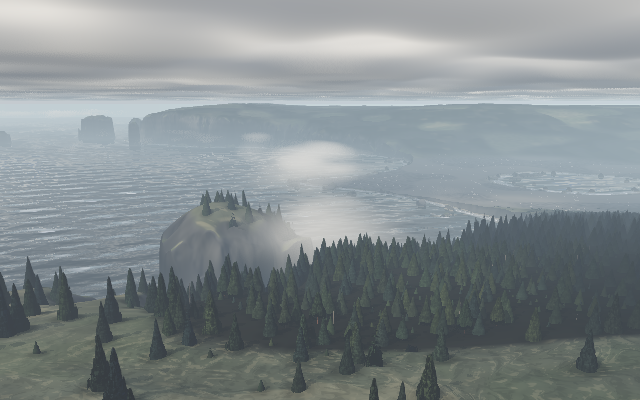
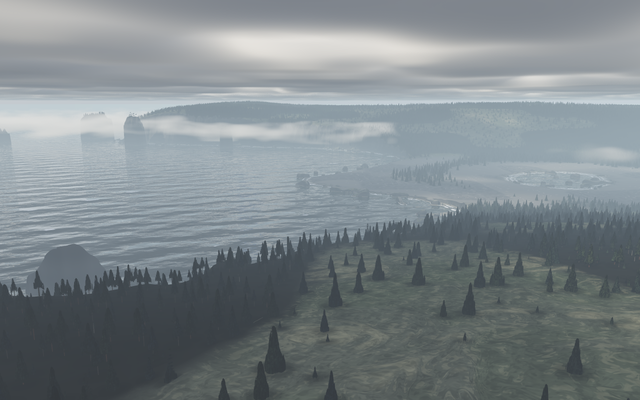
gallery: 1280x800 previews of every piece, refreshed after native noise and the polish (#88)
Every piece at 1280x800, with the large erosion bake (ErN 1024, ErDrops
240000) and 3x3 supersampling, rendered through pscat's compiled
kernelimage on the compute-kernels test build (#117; the owner approved it
for these previews). The 640x400 and 320x200 previews the docs use are
downsampled from them. Alt text updated where the look changed
(alpine_forest's stand, charted_range's framing); docs/mountains.md and
docs/forest.md note the refresh and its timings.

Claude-Session: https://claude.ai/code/session_016y8NtRBca7nuw57BJmECGm

diff --git a/docs/landscape-toolkit.html b/docs/landscape-toolkit.html
@@ -976,7 +976,7 @@ scripts/fetch_fc.sh --check    # in CI</code></pre>
       </figcaption>
     </figure>
     <figure>
-      <img src="../gallery/previews/alpine_forest-640x400.png" width="640" height="400" loading="lazy" alt="A conifer forest on a valley floor under the massif.">
+      <img src="../gallery/previews/alpine_forest-640x400.png" width="640" height="400" loading="lazy" alt="Spruce groves and tree islands on a meadow slope under the massif.">
       <figcaption>
         <span class="name">Alpine forest <span class="mark part">draft</span></span>
         <span class="meta">gallery/alpine_forest.ps &middot; 640&times;400</span>
@@ -1011,7 +1011,7 @@ scripts/fetch_fc.sh --check    # in CI</code></pre>
       </figcaption>
     </figure>
     <figure>
-      <img src="../gallery/previews/charted_range-320x200.png" width="320" height="200" loading="lazy" alt="A mapped range with two peaks behind a lake, seen from the lake's south shore.">
+      <img src="../gallery/previews/charted_range-320x200.png" width="320" height="200" loading="lazy" alt="A mapped range behind a lake, seen from the lake's south shore.">
       <figcaption>
         <span class="name">Charted range <span class="mark part">draft</span></span>
         <span class="meta">gallery/charted_range.ps &middot; 320&times;200 &middot; PR #50</span>

diff --git a/docs/techniques.html b/docs/techniques.html
@@ -108,7 +108,7 @@ ol.refs li { margin: .45rem 0; font-size: .95rem; }
 <p class="meta">How <a href="https://github.com/ArtColony/fractal_clouds">fractal_clouds</a> paints mountains, clouds and spruce forests one ray at a time, in a page-description language from 1984. Written for issue #11, October 2026, against pscat 0.6.2.</p>
 
 <figure class="wide">
-  <img src="../gallery/previews/alpine_forest-1280x800.png" alt="A spruce forest on a valley floor beneath a snowy, fractured massif, with cumulus clouds above." loading="lazy">
+  <img src="../gallery/previews/alpine_forest-1280x800.png" alt="Spruce in groves and tree islands on a meadow slope beneath a fractured massif with patches of snow, a few small clouds above." loading="lazy">
   <figcaption><em>Alpine forest</em> (<code>gallery/alpine_forest.ps</code>), 1280×800. Every pixel is one PostScript procedure call: march a ray through the terrain and the trees, shade what it hits, haze it, march the same ray through a cloud layer, tone-map. 25.5 minutes on four cores.</figcaption>
 </figure>
 

diff --git a/docs/forest.md b/docs/forest.md
@@ -75,6 +75,12 @@ Large render: `gallery/previews/alpine_forest-1280x800.png`
 The cut points were guessed from crop timings; the sky band turned out the
 slowest, so `0.45 0.62 0.8` would balance better.
 
+Refreshed 2026-11-12 (#88, after native noise #16 and the stand changes in
+#85 and #100): rendered through pscat's compiled `kernelimage` on the
+compute-kernels test build (#117, not yet a release), with the same erosion
+settings and 3x3 supersampling: **213 s** wall, including the 31 s erosion bake,
+against 25.5 minutes wall interpreted above.
+
 ## Known limits
 
 - The near-tree march is the cost: crowns are marched in short steps

diff --git a/docs/mountains.md b/docs/mountains.md
@@ -49,6 +49,10 @@ differences were large.
 
 Large render: `gallery/previews/mountains-1280x800.png`
 (`DPI=288 scripts/render.sh -D ErN=1024 -D ErDrops=240000 gallery/mountains.ps`).
+Refreshed 2026-11-12 (#88, after native noise #16): rendered through pscat's
+compiled `kernelimage` on the compute-kernels test build (#117, not yet a
+release), with the same erosion settings and 3x3 supersampling: **79 s** wall,
+including the 31 s erosion bake, against 34 minutes interpreted above.
 
 ## Known limits
 
